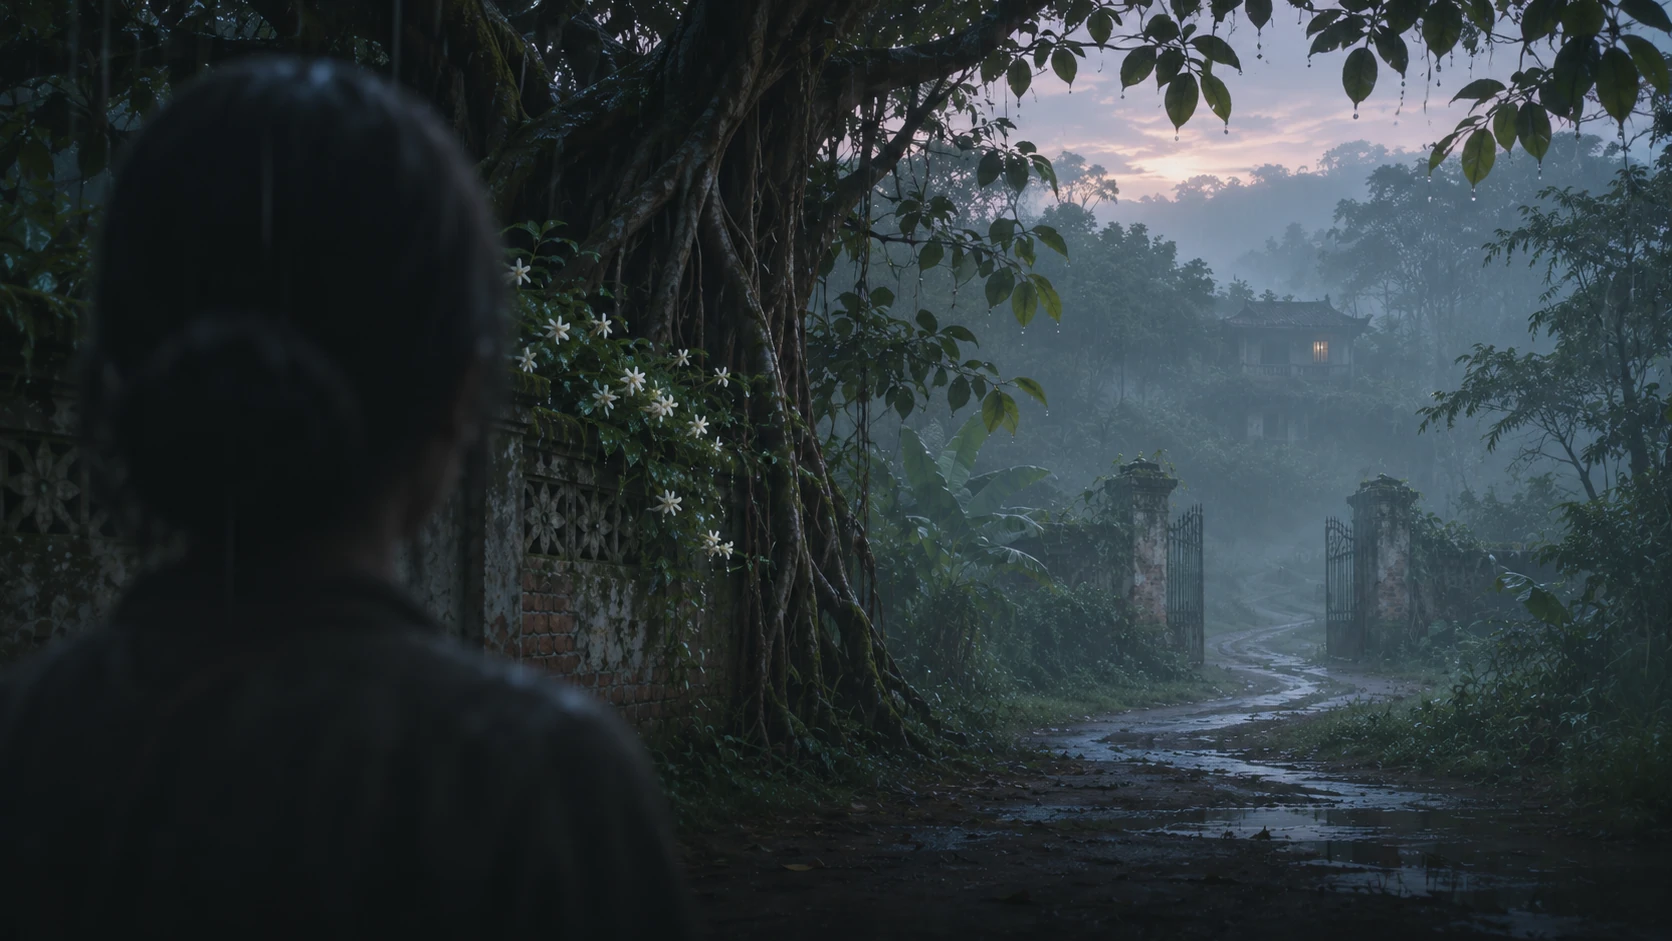
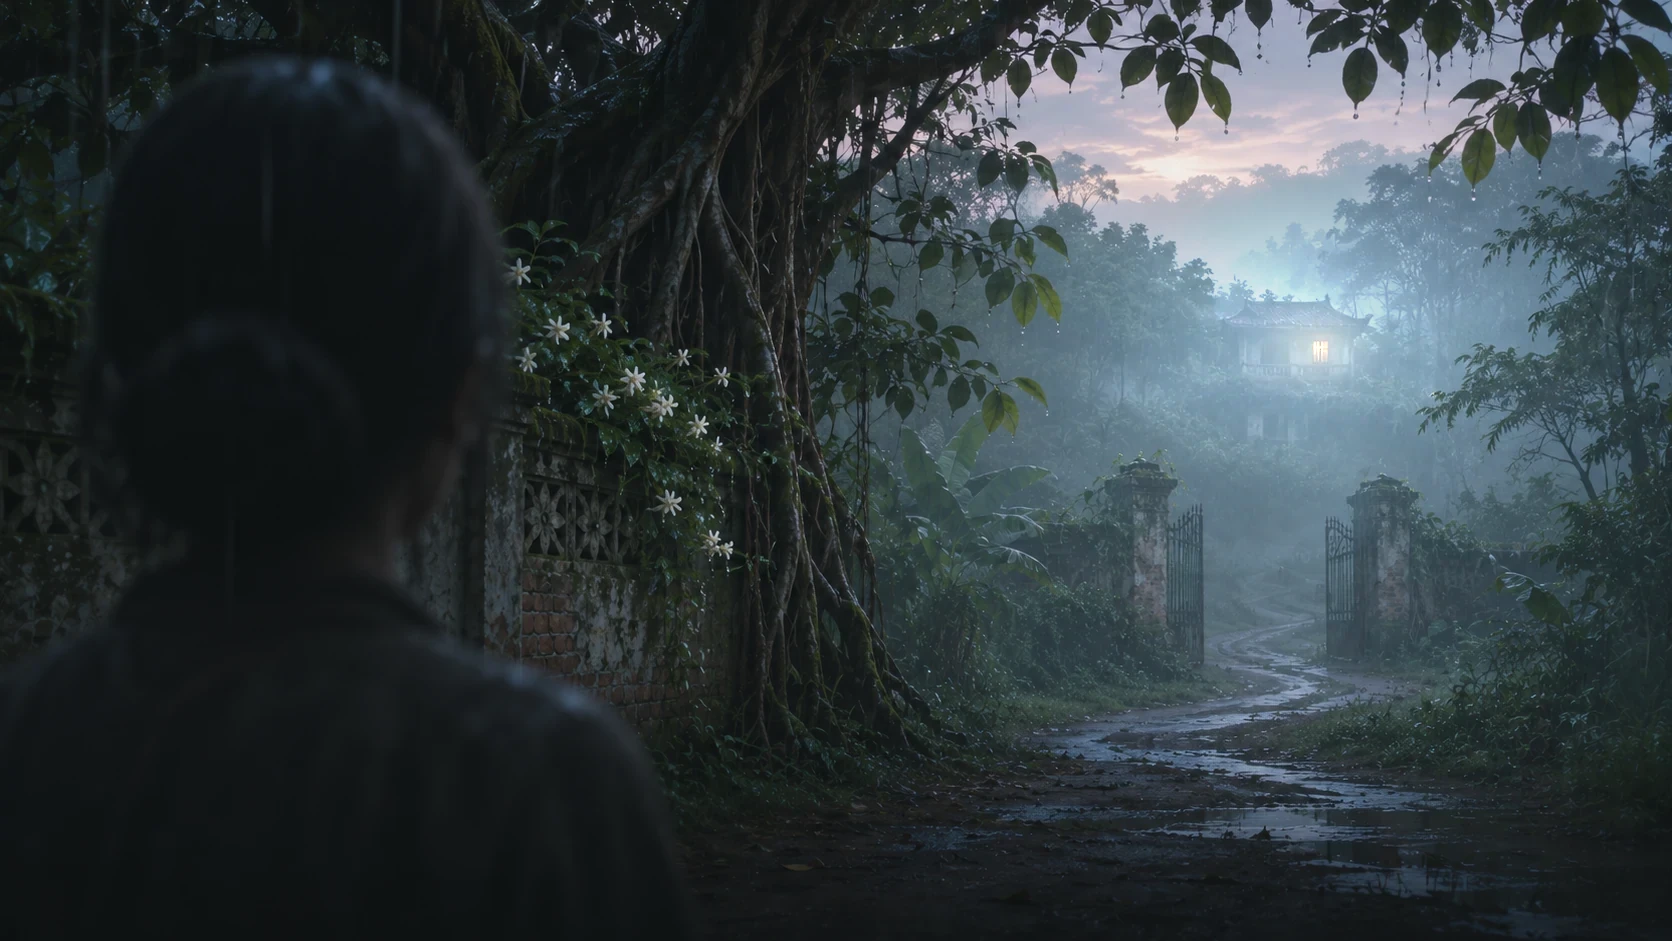
Ending: làm sáng biệt thự ở normal_05, đổi phụ đề trùng ý, xóa bộ ảnh ending cũ không còn dùng
Claude-Session: https://claude.ai/code/session_01Qh7p9GeLoQ36Sps9V4WBv1

Changed region(s): [[0.622, 0.1541, 0.933, 0.5547]]

diff --git a/ending-cinematic.js b/ending-cinematic.js
@@ -18,7 +18,7 @@ const FRAMES={
   {file:'normal_02.webp',motion:'pan',alt:'Những bước chân lặng lẽ đi trên con đường lầy.',text:'Không ai nói gì. Họ chỉ bước.'},
   {file:'normal_03.webp',motion:'still',alt:'Cả nhóm đi qua cầu gỗ về phía làng.',text:'Con đường qua rừng đưa họ trở về làng.'},
   {file:'normal_04.webp',motion:'push',alt:'Ngõ làng, cánh đồng và ánh đèn nhà trong sương sớm.',text:'Làng vẫn dậy sớm như chưa có chuyện gì.'},
-  {file:'normal_05.webp',motion:'panLeft',alt:'Một người ngoái nhìn biệt thự phía xa.',text:'Phía sau hàng cây, ánh sáng nhỏ ấy vẫn chưa tắt.'},
+  {file:'normal_05.webp',motion:'panLeft',alt:'Một người ngoái nhìn biệt thự phía xa.',text:'Ngoái lại lần cuối, ô cửa sổ ấy vẫn còn sáng.'},
   {file:'normal_06.webp',motion:'still',alt:'Cành hoa nhài nằm trên con đường vắng.',text:'Phía sau hàng cây, những câu hỏi vẫn chưa có lời đáp.'}
  ],
  good:[
